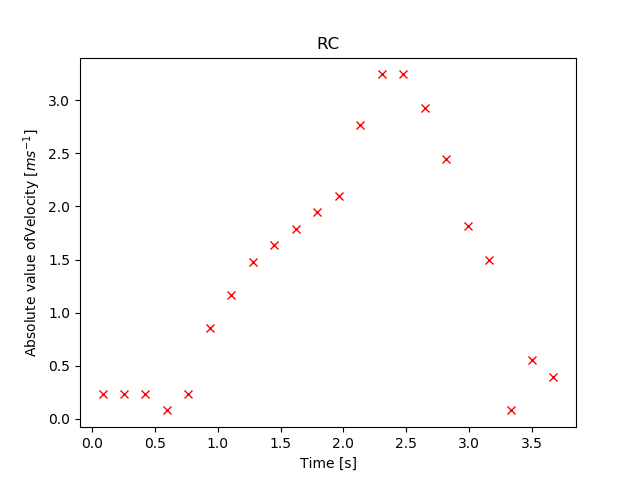
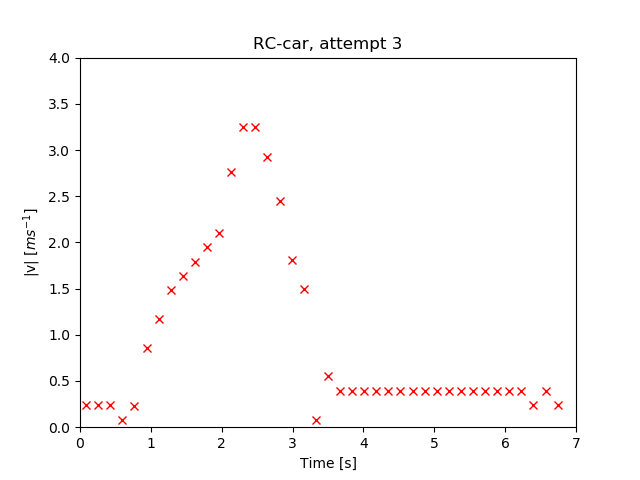
...

diff --git a/Rapport 2/scripts/data.py b/Rapport 2/scripts/data.py
@@ -104,12 +104,17 @@ def rc_vel(a, b, filename, f, title, figname):
     v_abs = np.sqrt(v**2)
     plt.plot(tw[:, a:b], v_abs[:, a:b], "x", color="red")
 
-    plt.ylabel("Absolute value ofVelocity $[ms^{-1}]$")
+    plt.ylabel("|v| $[ms^{-1}]$")
     plt.xlabel("Time [s]")
+    plt.ylim(0, 4)
+    plt.xlim(0, 7)
     plt.title("%s" % (title))
     plt.savefig("figs/%s.png"%figname)
     plt.close()
-rc_vel(0, 22, "labdata/RC_3.mat", rc_freq, "RC", "RC_3abs")
+rc_vel(0, -1, "labdata/RC_3.mat", rc_freq, "RC-car, attempt 3", "RC_3abs")
+rc_vel(0, -1, "labdata/RC_2.mat", rc_freq, "RC-car, attempt 2", "RC_2abs")
+rc_vel(0, -1, "labdata/rc_1.mat", rc_freq, "RC-car, attempt 1", "RC_1abs")
+
 
 
 def histogram1():
